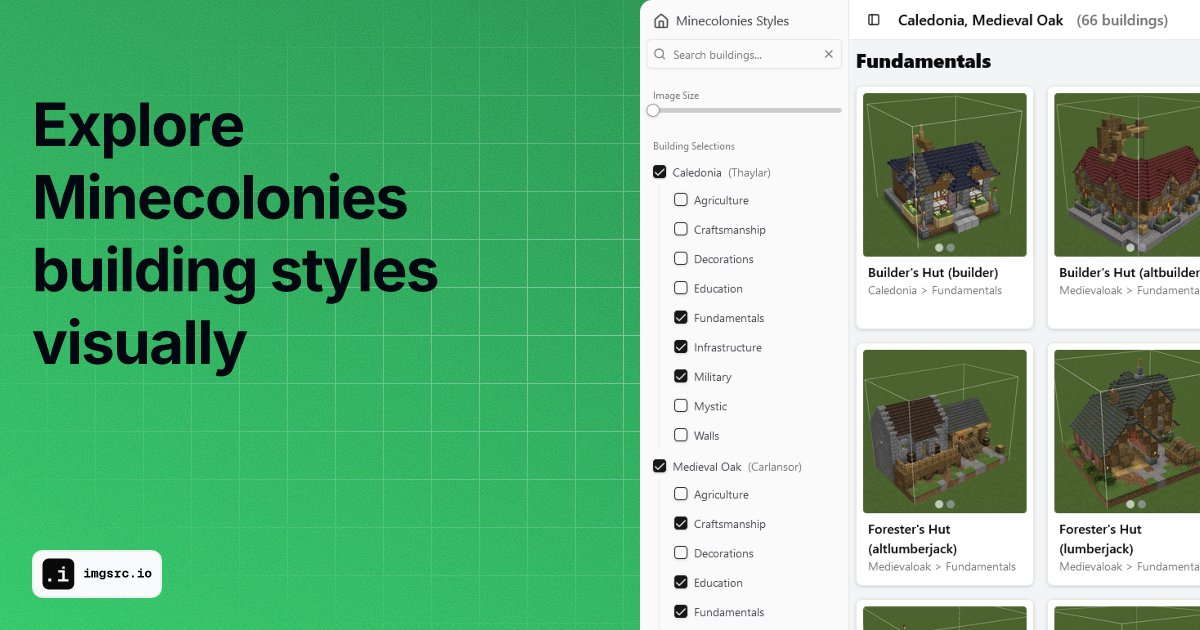
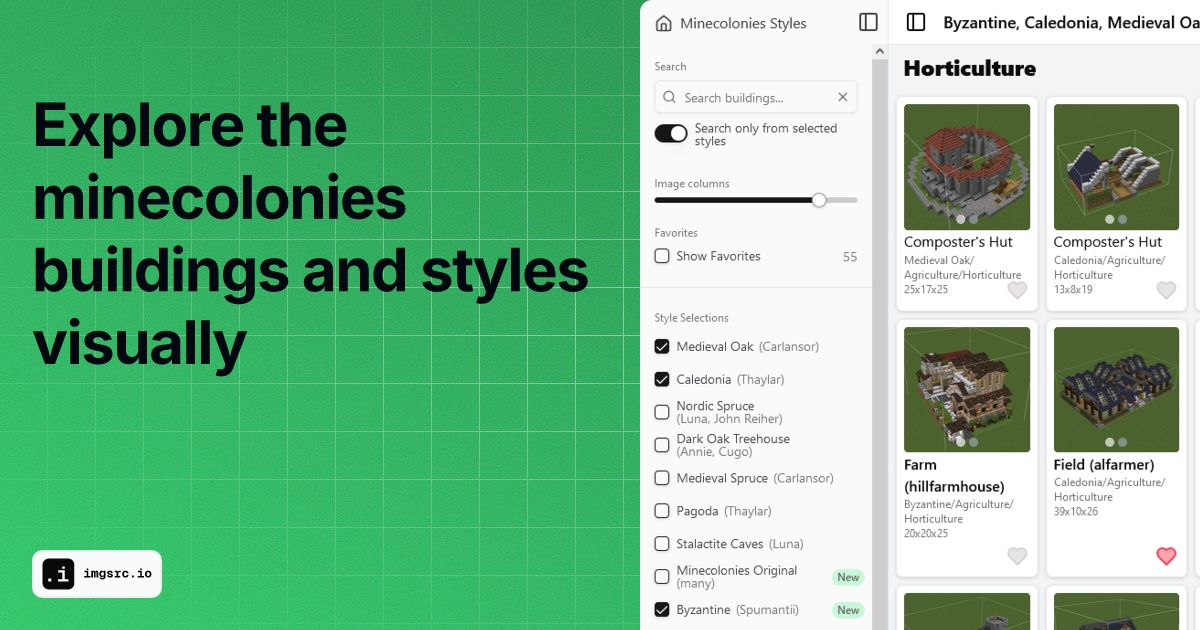
feat: update meta description & ogp.jpg

diff --git a/index.html b/index.html
@@ -5,19 +5,20 @@
     <link rel="icon" type="image/svg+xml" href="/favicon.svg" />
     <meta name="viewport" content="width=device-width, initial-scale=1.0" />
     <title>Minecolonies Style Explorer</title>
-    <meta name="description" content="Explore Minecolonies building themes and styles visually">
+    <meta name="description"
+          content="Explore the minecolonies buildings and styles visually. Here you can look at a list of screenshots of all the buildings and styles. You can favorite buildings to plan for your next city, and filter buildings by style and category, and search for buildings too.">
     <meta property="og:title" content="Minecolonies Style Explorer" />
     <meta property="og:type" content="website" />
     <meta property="og:url" content="https://tomp2.github.io/minecolonies-style-explorer/" />
-    <meta property="og:description" content="Explore Minecolonies building themes and styles visually" />
+    <meta property="og:description" content="Explore the minecolonies buildings and styles visually" />
     <meta property="og:image" content="https://tomp2.github.io/minecolonies-style-explorer/ogp.jpg" />
     <meta property="og:image:type" content="image/png" />
     <meta property="og:image:width" content="1200" />
     <meta property="og:image:height" content="630" />
     <meta property="og:image:alt" content="Screenshot of the Minecolonies Style Explorer" />
     <meta name="twitter:card" content="summary_large_image" />
-    <meta name="twitter:title" content="Explore Minecolonies building styles visually" />
-    <meta name="twitter:description" content="Explore Minecolonies building styles visually" />
+    <meta name="twitter:title" content="Explore the minecolonies buildings and styles visually" />
+    <meta name="twitter:description" content="Explore the minecolonies buildings and styles visually" />
     <meta name="twitter:image" content="https://tomp2.github.io/minecolonies-style-explorer/ogp.jpg" />
     <meta name="twitter:image:width" content="1200" />
     <meta name="twitter:image:height" content="630" />
